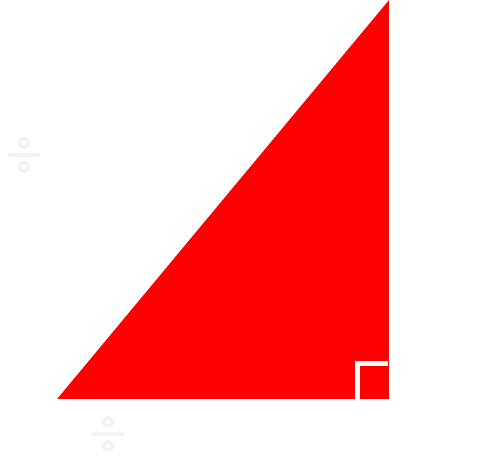
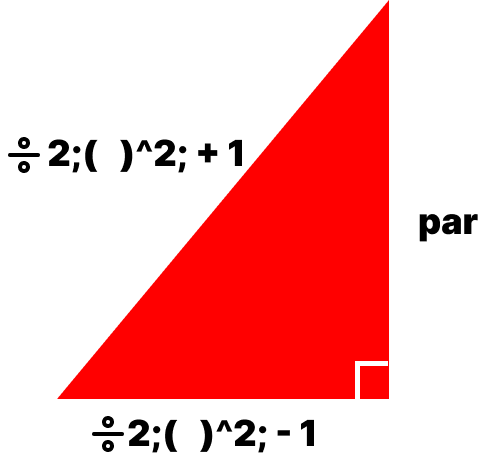
images

diff --git a/teoremaPitagora.html b/teoremaPitagora.html
@@ -8,8 +8,10 @@
 </head>
         <body> 
             <h1>Teorema de Pitágoras</h1>
-            <p></p>
+            
         <div class="property">
+            <img src="images/pitagora par.png">
+            <img src="images/pitagora impar.png">
             
         </div>
                     
